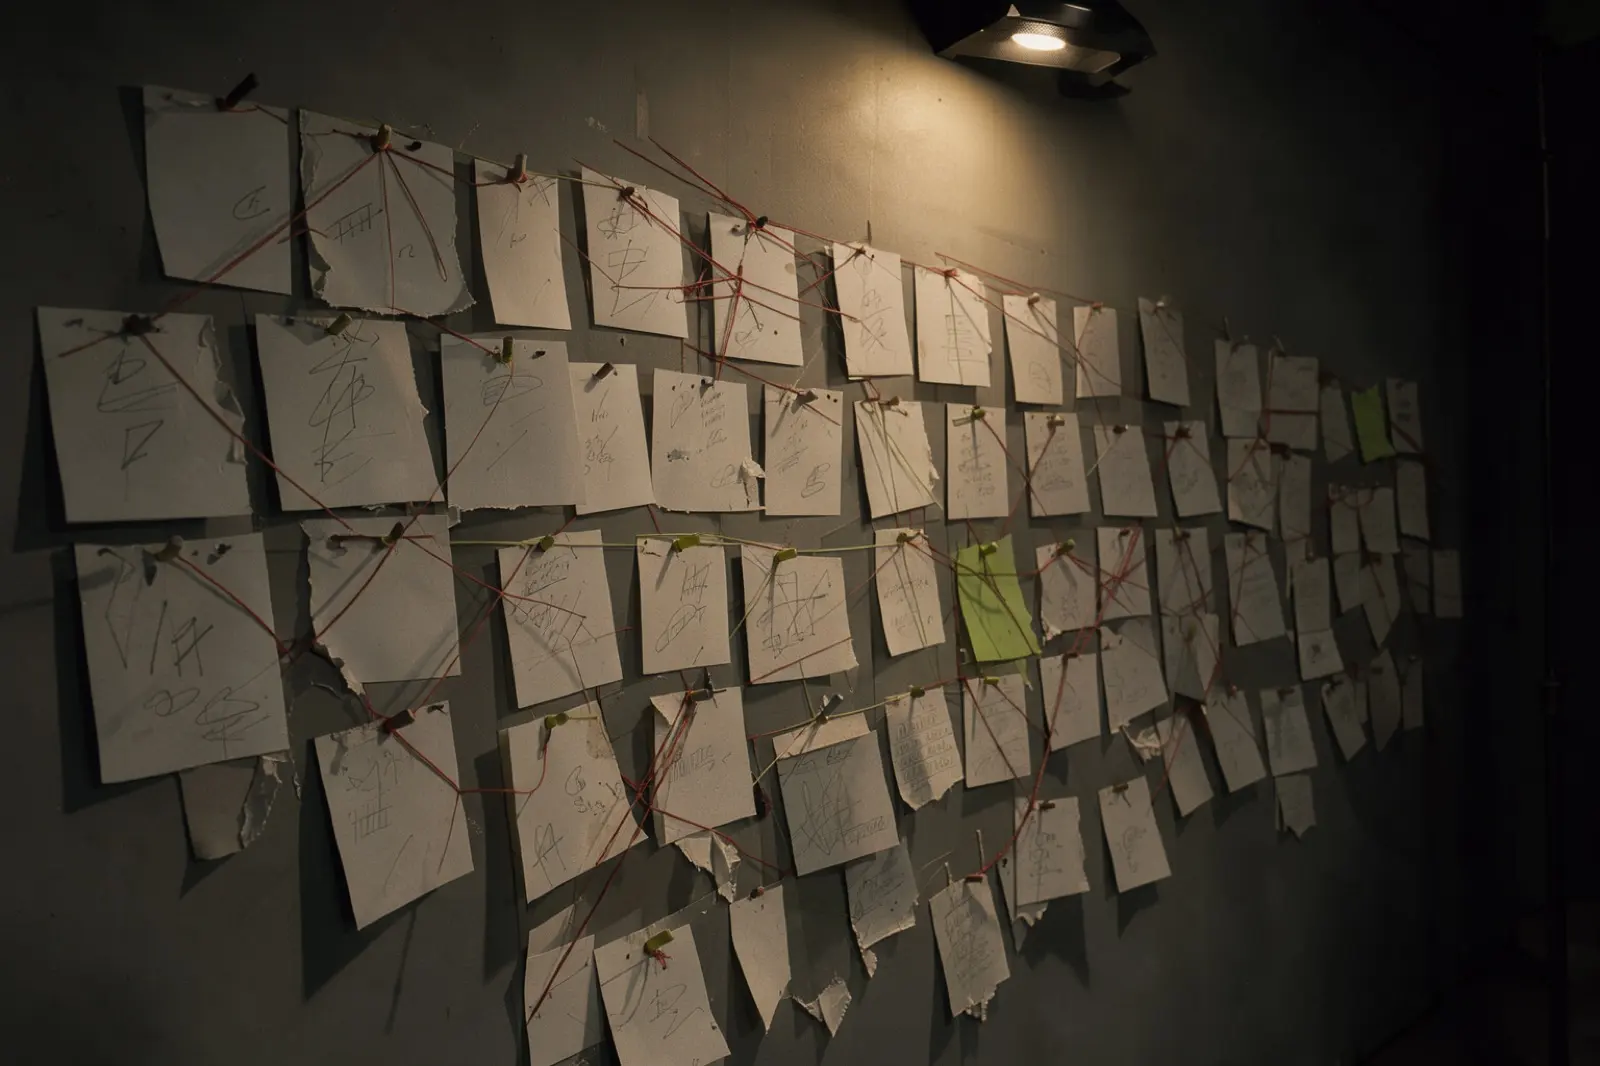
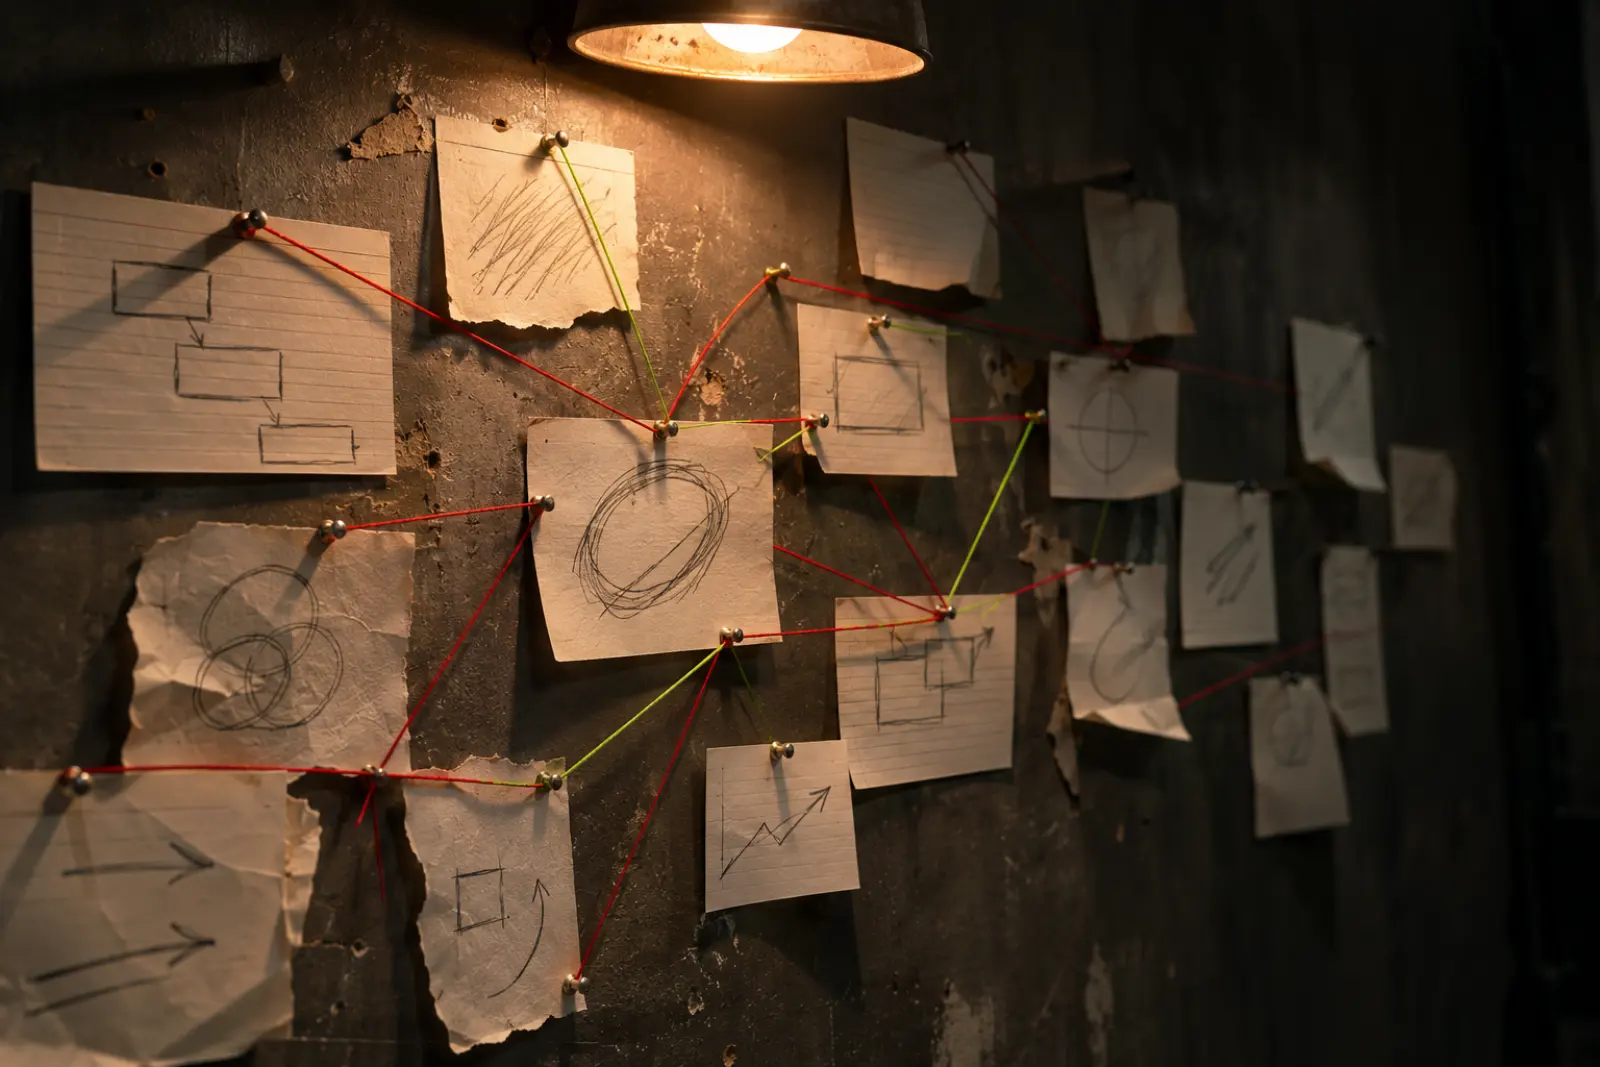
feat(assets): replace ambient scenes with Codex-generated photos

diff --git a/docs/redesign/assets.md b/docs/redesign/assets.md
@@ -4,31 +4,17 @@ Origem de cada imagem em `public/redesign/`. Regra do projeto: IA só gera ambie
 
 ## Cenas de ambiente (geradas)
 
-Modelo FLUX 3 Image Klein INT8 no ComfyUI local, semente `20261107`, 8 passos, euler/simple, cfg 1.0, 1536×1024. Geradas em 07/11/2026 e convertidas para webp (1600 px, qualidade 76).
+Geradas em 07/11/2026 pelo **Codex CLI 0.167.0**, com a ferramenta `image_generation` (OpenAI), uma imagem por cena, em 1536×1024. Convertidas para webp de 1600 px, qualidade 76, com `cwebp`. Substituíram as versões do FLUX local, que o Ranielli achou de baixa qualidade (rodada 2 do redesign).
 
-Estilo comum a todas:
+Os prompts ficam em `docs/redesign/prompts-codex/`: cada cena usa `style.txt` seguido do arquivo da cena.
 
-> Cinematic documentary photograph, shot on a 35mm full-frame camera with a fast prime lens, natural low light, deep blacks, subtle film grain, muted palette of charcoal, warm tungsten and a single acid lime-green accent light.
-
-### `scenes/discovery.webp`
-
-> A wall in a dim studio covered with white index cards and torn paper notes pinned in loose clusters, connected by taut red and lime threads, some cards marked with quick abstract pencil strokes and arrows. A single warm work light from frame-top rakes across the wall, casting long soft shadows from the pins. Seen slightly from the side, the wall recedes into darkness at frame-right.
-
-### `scenes/night-setup.webp`
-
-> A quiet home office at night in a small town in the mountains of southern Brazil. A dark wooden desk holds an ultrawide monitor filled with dense columns of code glowing white and lime green, a compact mechanical keyboard and a ceramic mug. A warm desk lamp at frame-left lights the edge of the desk. Through a large window at frame-right, low fog drifts over dark green hills under a deep blue night sky. The chair is empty, the room feels lived-in and calm.
-
-### `scenes/keyboard.webp`
-
-> Extreme close-up from a low side angle of a person's hands typing on a dark matte mechanical keyboard. The keys are lit softly from above by the cool glow of a screen out of frame, and a thin lime-green reflection of terminal text lines runs across the keycaps. Shallow depth of field, the far keys melt into black.
-
-### `scenes/fog-window.webp`
-
-> Early morning inside a farmhouse kitchen in the Serra Gaúcha. An open laptop sits on a worn wooden table near a tall window, its screen showing a dark interface with a single lime-green highlight. Outside the window, thick white fog fills a valley of green hills and araucaria trees, soft daylight spilling in and wrapping the edge of the table.
-
-### `scenes/server.webp`
-
-> Macro photograph of the back of a small home server rack in a dark room, rows of thin network cables in black and grey, tiny lime-green and amber status LEDs blinking in a long line, the closest LEDs blooming into soft round bokeh at frame-left.
+| Arquivo | Prompt | Onde aparece |
+|---|---|---|
+| `scenes/discovery.webp` | `discovery.txt` (parede de fichas com fios) | ciclo, etapa "dor" |
+| `scenes/fog-window.webp` | `fog-window.txt` (cozinha na serra, neblina e araucárias) | ciclo, etapa "solução" |
+| `scenes/night-setup.webp` | `night-setup.txt` (escritório à noite) | ciclo, etapa "produto" |
+| `scenes/keyboard.webp` | `keyboard.txt` (mãos no teclado) | ciclo, etapa "código" |
+| `scenes/server.webp` | `server.txt` (traseira do rack) | capa do Argus no "No ar" |
 
 ## Capturas reais
 
